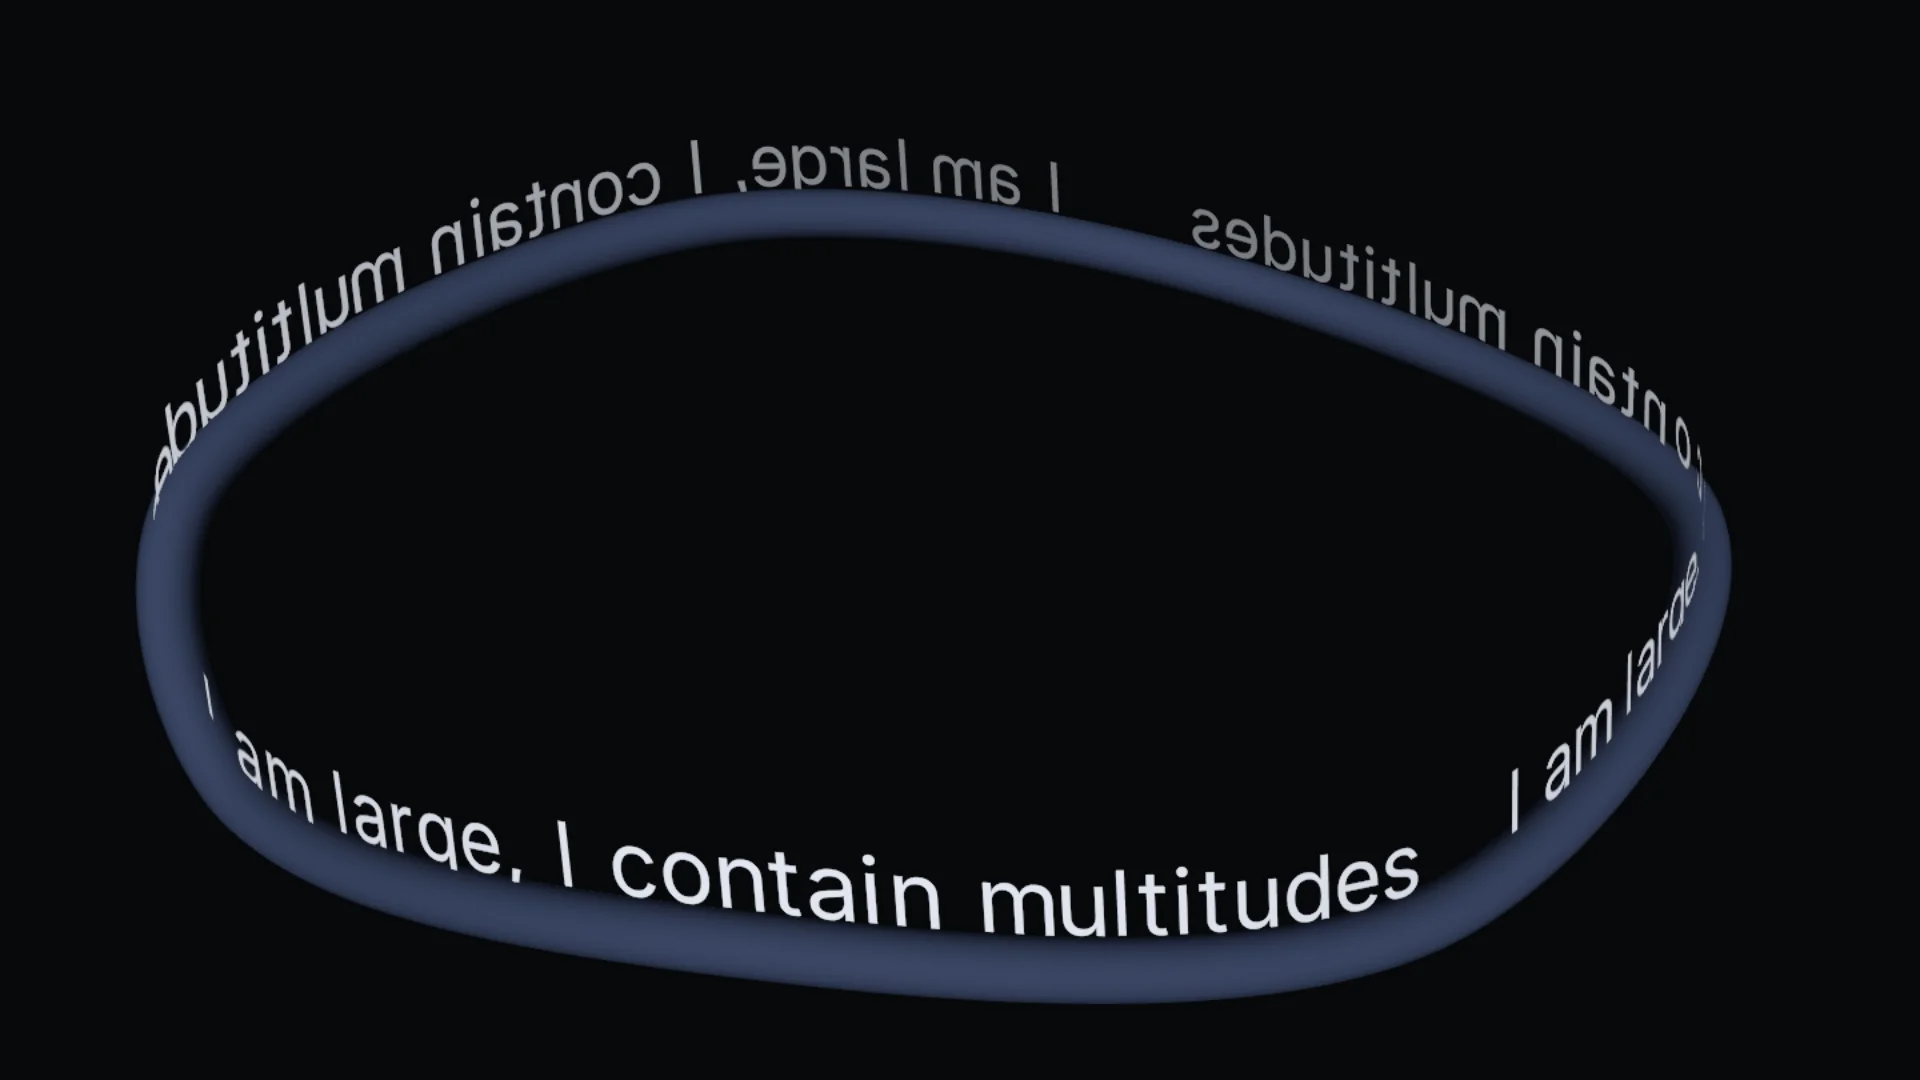
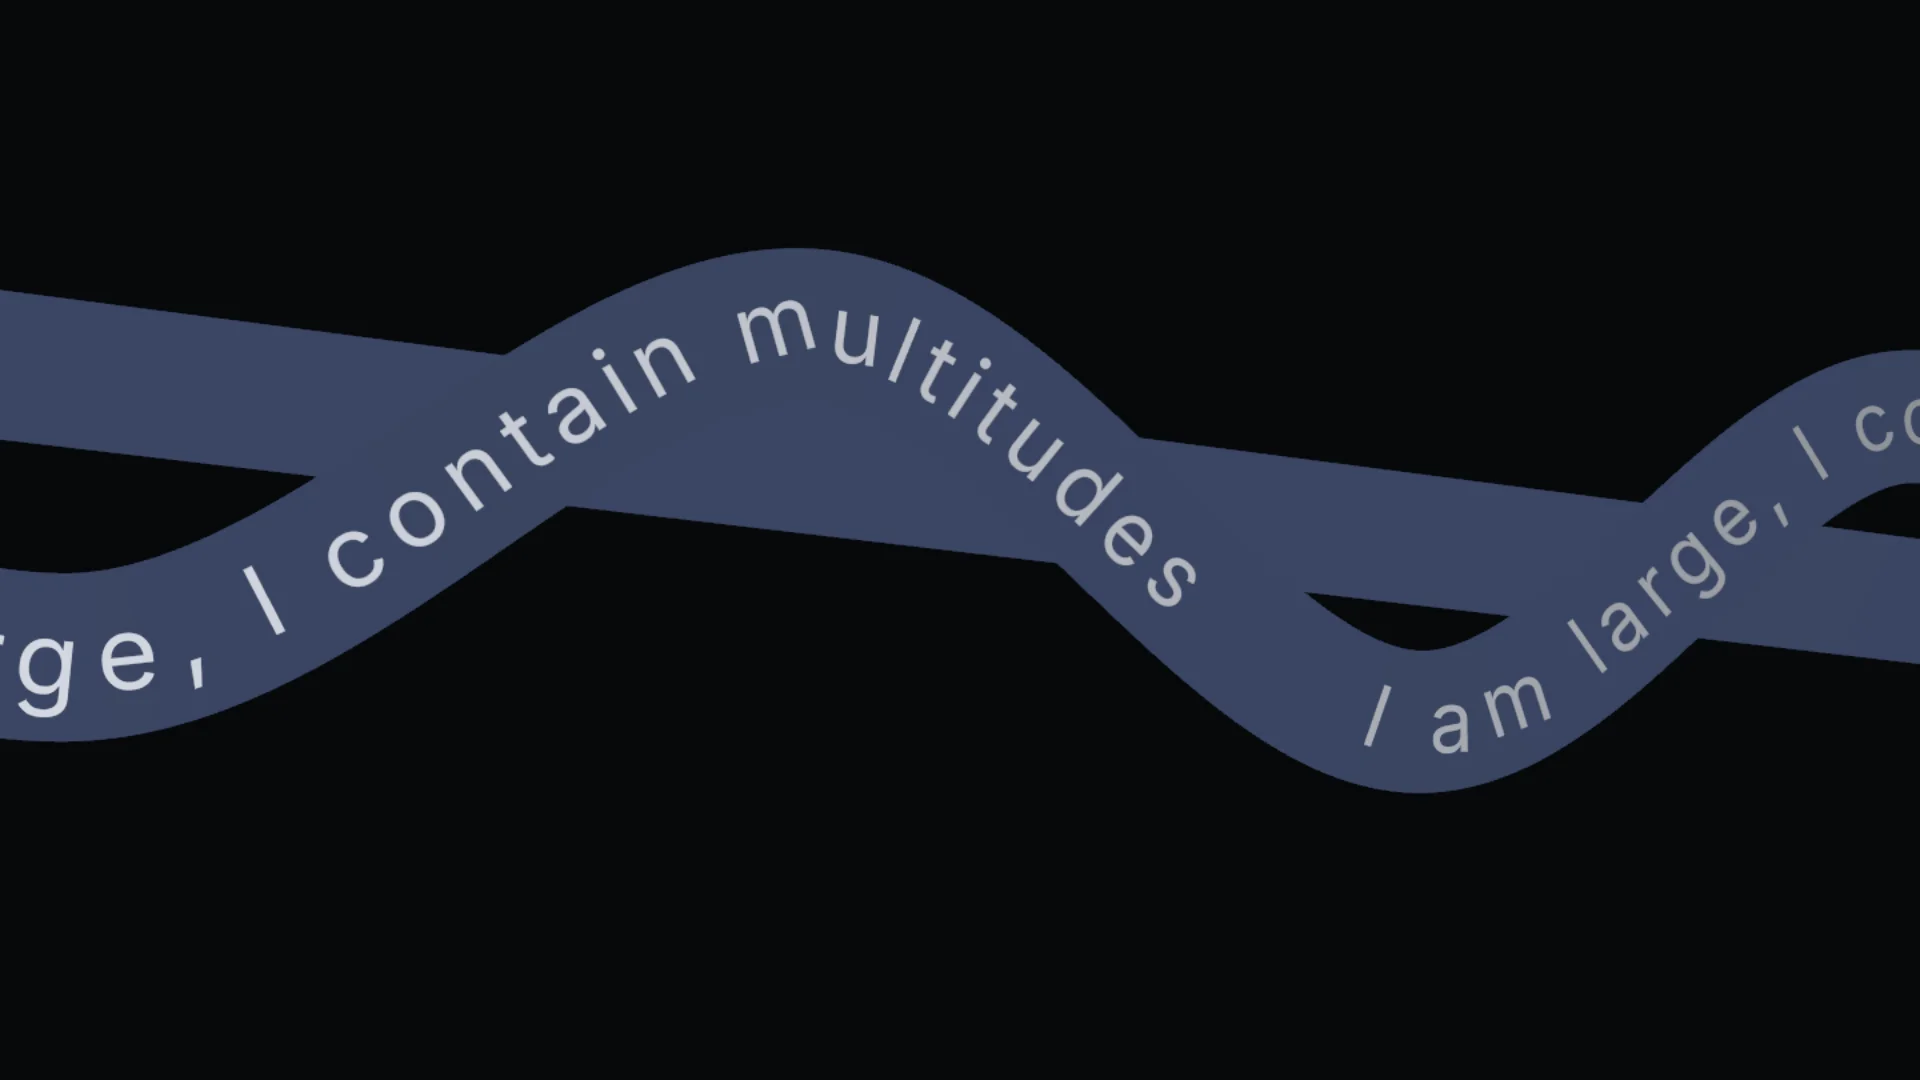
feat(site): the ribbon is a band with the type printed on it
A flat band on an open camera-facing curve, its normal the frame's, with
each glyph laid across the band's width and lifted a little toward the
viewer. Paths gained a lift along the glyph's facing and a band geometry.

diff --git a/site/examples/src/scenes/ribbon/three.ts b/site/examples/src/scenes/ribbon/three.ts
@@ -1,17 +1,18 @@
 import { glyph } from '@pmndrs/glyph';
 import { slug } from '@pmndrs/glyph/raster/slug';
 import { ThreeConfig, type Glyphs } from '@pmndrs/glyph/three';
-import { Group, Matrix4, Mesh, TubeGeometry, type Scene } from 'three/webgpu';
+import { Group, Matrix4, Mesh, Vector3, type Scene } from 'three/webgpu';
 
 import { INTER } from '../../fonts';
+import { bandGeometry } from '../../lib/band';
 import { curvePath, placeOnPath } from '../../lib/paths';
-import { CURVE, LINE, RIBBON } from './config';
+import { CURVE, LINE, REPEATS, RIBBON } from './config';
 import { ribbonInk, ribbonMaterial } from './materials';
 
 /**
- * The imperative twin: a tube on the curve, one line of text shaped once,
- * copied out with `breakApart()` on commit, and every frame each glyph is
- * placed on the same curve by its advance plus time.
+ * The imperative twin: a flat band on an open curve facing the camera, one
+ * line of text shaped once, copied out with `breakApart()` on commit, and
+ * every frame each glyph is laid across the band by its advance plus time.
  */
 export async function mount(scene: Scene): Promise<() => void> {
   await glyph.init();
@@ -19,13 +20,12 @@ export async function mount(scene: Scene): Promise<() => void> {
   const Inter = glyph.fontFace(INTER, { format: slug });
   await Inter.load();
 
-  const path = curvePath(CURVE);
+  const path = curvePath(CURVE, new Vector3(0, 0, 1));
   const stage = new Group();
-  stage.rotation.set(0.22, 0, 0.06);
-  const ribbon = new Mesh(new TubeGeometry(CURVE, 480, RIBBON.radius, 14, true), ribbonMaterial());
+  const ribbon = new Mesh(bandGeometry(path, RIBBON.width, 480, false), ribbonMaterial());
   const line = three.createText({
     font: Inter,
-    text: LINE.repeat(3),
+    text: LINE.repeat(REPEATS),
     material: ribbonInk,
     style: { fontSize: RIBBON.size, color: '#e7ecf6', letterSpacing: RIBBON.letterSpacing },
     layout: { wrap: 'none' },
@@ -42,6 +42,7 @@ export async function mount(scene: Scene): Promise<() => void> {
   let elapsed = 0;
   const tick = (): void => {
     elapsed += 1 / 60;
+    stage.rotation.y = Math.sin(elapsed * 0.3) * RIBBON.sway;
     if (glyphs === undefined && line.commitState().status === 'committed') {
       [glyphs] = line.breakApart();
       width = line.measure().contentWidth;
@@ -53,7 +54,11 @@ export async function mount(scene: Scene): Promise<() => void> {
         const rest = glyphs.measurements[i];
         if (rest === undefined) continue;
         const s = (rest.originalMatrix.elements[12] ?? 0) * (path.length / width) + elapsed * RIBBON.speed;
-        glyphs.setMatrixAt(i, placeOnPath(path, s, 0, RIBBON.radius + 0.02, rest.originalMatrix, matrix));
+        // -π/2 lays the glyph across the band's width, centred on it, lifted a little toward the viewer.
+        glyphs.setMatrixAt(
+          i,
+          placeOnPath(path, s, -Math.PI / 2, -RIBBON.size * 0.36, rest.originalMatrix, matrix, 0.03),
+        );
       }
     }
     glyph.shape();

diff --git a/site/examples/src/scenes/ribbon/scene.tsx b/site/examples/src/scenes/ribbon/scene.tsx
@@ -1,39 +1,51 @@
 import { useSlug } from '@pmndrs/glyph/react/slug';
-import { useMemo } from 'react';
-import { TubeGeometry } from 'three/webgpu';
+import { useFrame } from '@react-three/fiber/webgpu';
+import { useMemo, useRef } from 'react';
+import { type Group, Vector3 } from 'three/webgpu';
 
 import { TextOnPath } from '../../components/text';
 import { INTER } from '../../fonts';
+import { bandGeometry } from '../../lib/band';
 import { curvePath } from '../../lib/paths';
-import { CURVE, LINE, RIBBON } from './config';
+import { CURVE, LINE, REPEATS, RIBBON } from './config';
 import { ribbonInk, ribbonMaterial } from './materials';
 
 /**
- * Words flowing along a ribbon through the scene. The ribbon is a tube on a
- * closed curve; the same curve is the path the glyphs are placed on, so they
- * ride its surface, standing on it and turning with it, upright the whole
- * way round. The type is depth-tested, so the ribbon hides the words that
- * pass behind it.
+ * Words printed on a ribbon that runs through the frame. The ribbon is a
+ * flat band built on an open curve whose normal faces the camera; the same
+ * curve is the path the glyphs are placed on, laid across the band's width,
+ * so the type lies on the ribbon and turns with it. The type is depth-tested
+ * and lifted a little off the band toward the viewer, so the band never
+ * bleeds through it.
  */
+const FACING = new Vector3(0, 0, 1);
+
 export default function Ribbon() {
   const inter = useSlug(INTER);
-  const path = useMemo(() => curvePath(CURVE), []);
-  const geometry = useMemo(() => new TubeGeometry(CURVE, 480, RIBBON.radius, 14, true), []);
+  const path = useMemo(() => curvePath(CURVE, FACING), []);
+  const geometry = useMemo(() => bandGeometry(path, RIBBON.width, 480, false), [path]);
   const material = useMemo(() => ribbonMaterial(), []);
+  const sway = useRef<Group>(null);
+
+  useFrame(({ elapsed }) => {
+    if (sway.current !== null) sway.current.rotation.y = Math.sin(elapsed * 0.3) * RIBBON.sway;
+  });
 
   return (
-    <group rotation={[0.22, 0, 0.06]}>
+    <group ref={sway}>
       <mesh geometry={geometry} material={material} />
       <TextOnPath
         font={inter}
         path={path}
         speed={RIBBON.speed}
-        height={RIBBON.radius + 0.02}
+        angle={-Math.PI / 2}
+        height={-RIBBON.size * 0.36}
+        lift={0.03}
         size={RIBBON.size}
         letterSpacing={RIBBON.letterSpacing}
         material={ribbonInk}
       >
-        {LINE.repeat(3)}
+        {LINE.repeat(REPEATS)}
       </TextOnPath>
     </group>
   );

diff --git a/site/examples/src/lib/paths.ts b/site/examples/src/lib/paths.ts
@@ -77,9 +77,10 @@ export function curvePath(curve: Curve<Vector3>, up = new Vector3(0, 1, 0)): Pat
       const u = (((s % length) + length) % length) / length;
       curve.getPointAt(u, out.position);
       curve.getTangentAt(u, out.tangent);
-      // Type stands on world up wherever the curve goes, the way it does on a circle; the letters never turn over.
-      out.normal.copy(up);
-      out.binormal.copy(out.tangent).cross(up).normalize();
+      // The normal is world up with the tangent's share removed, so it is always perpendicular to the path:
+      // type stands on the tube wherever the curve climbs or dives, and never turns over.
+      out.normal.copy(up).addScaledVector(out.tangent, -up.dot(out.tangent)).normalize();
+      out.binormal.copy(out.tangent).cross(out.normal).normalize();
       return out;
     },
   };
@@ -118,9 +119,10 @@ const scale = new Vector3();
 /**
  * Places one glyph on a path: `s` is its arc position, `angle` its place
  * around the path's frame (0 is the normal), `height` how far its baseline
- * sits from the path, and `originalMatrix` its committed transform, whose
- * scale is kept. The glyph's x runs along the tangent and its y along the
- * chosen radial, so the text reads along the path standing on it.
+ * sits from the path along that radial, `lift` how far it floats off its own
+ * plane toward the viewer, and `originalMatrix` its committed transform,
+ * whose scale is kept. The glyph's x runs along the tangent and its y along
+ * the chosen radial, so the text reads along the path standing on it.
  */
 export function placeOnPath(
   path: Path,
@@ -129,12 +131,13 @@ export function placeOnPath(
   height: number,
   originalMatrix: Matrix4,
   out: Matrix4,
+  lift = 0,
 ): Matrix4 {
   path.frameAt(s, frame);
   radial.copy(frame.normal).multiplyScalar(Math.cos(angle)).addScaledVector(frame.binormal, Math.sin(angle));
   facing.copy(frame.tangent).cross(radial).normalize();
   originalMatrix.decompose(home, q, scale);
-  at.copy(frame.position).addScaledVector(radial, height);
+  at.copy(frame.position).addScaledVector(radial, height).addScaledVector(facing, lift);
   basis.makeBasis(frame.tangent, radial, facing).setPosition(at);
   return out.copy(basis).scale(scale);
 }

diff --git a/site/examples/src/lib/band.ts b/site/examples/src/lib/band.ts
@@ -1,0 +1,52 @@
+import { BufferAttribute, BufferGeometry, Vector3 } from 'three/webgpu';
+
+import type { Path, PathFrame } from './paths';
+
+/**
+ * A flat band along a path: two vertices per sample, one on each side of the
+ * path along its binormal, so the band lies in the path's tangent–binormal
+ * plane and its normal is the frame's normal. Closed by default, so the
+ * last segment joins the first. Text placed on the same path with its y
+ * along the binormal lies printed on this band.
+ */
+export function bandGeometry(path: Path, width: number, segments = 480, closed = true): BufferGeometry {
+  const frame: PathFrame = {
+    position: new Vector3(),
+    tangent: new Vector3(),
+    normal: new Vector3(),
+    binormal: new Vector3(),
+  };
+  const rows = closed ? segments : segments + 1;
+  const positions = new Float32Array(rows * 2 * 3);
+  const normals = new Float32Array(rows * 2 * 3);
+  const uvs = new Float32Array(rows * 2 * 2);
+  const half = width / 2;
+  const samples = closed ? segments : segments + 1;
+  for (let i = 0; i < samples; i += 1) {
+    path.frameAt((i / segments) * path.length, frame);
+    for (let side = 0; side < 2; side += 1) {
+      const offset = side === 0 ? -half : half;
+      const v = (i * 2 + side) * 3;
+      positions[v] = frame.position.x + frame.binormal.x * offset;
+      positions[v + 1] = frame.position.y + frame.binormal.y * offset;
+      positions[v + 2] = frame.position.z + frame.binormal.z * offset;
+      normals[v] = frame.normal.x;
+      normals[v + 1] = frame.normal.y;
+      normals[v + 2] = frame.normal.z;
+      uvs[(i * 2 + side) * 2] = i / segments;
+      uvs[(i * 2 + side) * 2 + 1] = side;
+    }
+  }
+  const indices: number[] = [];
+  for (let i = 0; i < segments; i += 1) {
+    const a = i * 2;
+    const b = (closed ? (i + 1) % segments : i + 1) * 2;
+    indices.push(a, a + 1, b, a + 1, b + 1, b);
+  }
+  const geometry = new BufferGeometry();
+  geometry.setAttribute('position', new BufferAttribute(positions, 3));
+  geometry.setAttribute('normal', new BufferAttribute(normals, 3));
+  geometry.setAttribute('uv', new BufferAttribute(uvs, 2));
+  geometry.setIndex(indices);
+  return geometry;
+}

diff --git a/site/examples/src/scenes/ribbon/config.ts b/site/examples/src/scenes/ribbon/config.ts
@@ -1,29 +1,43 @@
 import { CatmullRomCurve3, Vector3 } from 'three/webgpu';
 
-/** A closed loop that swings through depth, so the ribbon passes in front of and behind itself. */
+/**
+ * An open S-curve across the frame, both ends past its edges, with a little
+ * depth so the band tilts as it goes: the ribbon a banner would make.
+ */
 export const CURVE = new CatmullRomCurve3(
-  // Counter-clockwise seen from above, so the near side runs left to right and reads forward.
   [
-    new Vector3(-4.0, -0.9, 0.9),
-    new Vector3(-1.2, -1.4, 2.2),
-    new Vector3(2.4, -1.7, 1.6),
-    new Vector3(4.4, -0.2, -0.6),
-    new Vector3(1.8, 1.2, -2.6),
-    new Vector3(-1.6, 1.8, -1.8),
-    new Vector3(-4.2, 0.6, 0.4),
+    new Vector3(-9.0, 1.4, 0.7),
+    new Vector3(-4.6, -0.6, 1.0),
+    new Vector3(-0.8, 1.2, 0.2),
+    new Vector3(2.8, -1.1, -0.5),
+    new Vector3(6.2, 0.8, -1.2),
+    new Vector3(9.6, -0.8, -1.8),
   ],
-  true,
+  false,
   'centripetal',
 );
 
 export const RIBBON = {
-  /** The tube's radius; type sits just above it. */
-  radius: 0.16,
+  /** The band's width; the type lies across it, so it is a little wider than a line is tall. */
+  width: 0.86,
+  /** A slow sway of the whole ribbon about y, so its depth reads. */
+  sway: 0.16,
   /** Units of arc per second the words travel. */
-  speed: 0.9,
-  size: 0.46,
+  speed: 1.1,
+  size: 0.52,
   letterSpacing: 0.05,
 } as const;
 
 /** Whitman, public domain. */
 export const LINE = 'I am large, I contain multitudes  ·  ';
+
+/**
+ * How many times the line repeats so the shaped text is about as long as the
+ * path: the glyphs are placed by advance mapped onto arc length, and a close
+ * match keeps that mapping near one so letter spacing reads as authored.
+ * Inter's average advance is about half an em.
+ */
+export const REPEATS = Math.max(
+  1,
+  Math.round(CURVE.getLength() / (LINE.length * (RIBBON.size * 0.52 + RIBBON.letterSpacing))),
+);

diff --git a/site/examples/src/components/text/TextOnPath.tsx b/site/examples/src/components/text/TextOnPath.tsx
@@ -20,6 +20,8 @@ export function TextOnPath<Technique extends AnyRasterFormat>({
   path,
   speed = 0,
   height = 0,
+  angle = 0,
+  lift = 0,
   size = 0.4,
   color = '#e7ecf6',
   letterSpacing = 0.06,
@@ -29,8 +31,12 @@ export function TextOnPath<Technique extends AnyRasterFormat>({
   readonly font: Font<Technique>;
   readonly path: Path;
   readonly speed?: number;
-  /** How far the baseline sits from the path along its normal; a tube's radius puts the type on its surface. */
+  /** How far the baseline sits from the path along the chosen radial; a tube's radius puts the type on its surface. */
   readonly height?: number;
+  /** Where around the path's frame the type stands: 0 is the normal, -π/2 lays it across a band's width. */
+  readonly angle?: number;
+  /** How far the type floats off its own plane toward the viewer; lifts it clear of a surface it lies on. */
+  readonly lift?: number;
   readonly size?: number;
   readonly color?: string;
   readonly letterSpacing?: number;
@@ -64,7 +70,7 @@ export function TextOnPath<Technique extends AnyRasterFormat>({
       if (rest === undefined) continue;
       // The line tiles the path exactly once: advance along the line scales to arc length.
       const s = (rest.originalMatrix.elements[12] ?? 0) * (path.length / width) + elapsed * speed;
-      glyphs.setMatrixAt(i, placeOnPath(path, s, 0, height, rest.originalMatrix, m));
+      glyphs.setMatrixAt(i, placeOnPath(path, s, angle, height, rest.originalMatrix, m, lift));
     }
   });
 

diff --git a/site/examples/src/scenes/ribbon/materials.ts b/site/examples/src/scenes/ribbon/materials.ts
@@ -1,10 +1,10 @@
 import { defineTextMaterial } from '@pmndrs/glyph/three';
 import { color, mix, normalView, positionWorld } from 'three/tsl';
-import { MeshBasicNodeMaterial } from 'three/webgpu';
+import { DoubleSide, MeshBasicNodeMaterial } from 'three/webgpu';
 
 /**
- * Type on the ribbon: depth-tested, so the ribbon hides the words that pass
- * behind it, and dimmed with distance so the far side reads as far. The quad
+ * Type on the ribbon: depth-tested, so the ribbon hides the words it passes
+ * over, and dimmed with distance so the far side reads as far. The quad
  * still never writes depth.
  */
 export const ribbonInk = defineTextMaterial((context) => {
@@ -17,10 +17,11 @@ export const ribbonInk = defineTextMaterial((context) => {
   return material;
 });
 
-/** A satin tube, shaded by its own facing rather than a light rig: bright where it faces the camera, dark at the rim. */
+/** A satin band, shaded by its own facing rather than a light rig: bright where it faces the camera, dark edge-on. */
 export function ribbonMaterial(): MeshBasicNodeMaterial {
   const material = new MeshBasicNodeMaterial();
-  const facing = normalView.z.clamp(0, 1);
-  material.colorNode = mix(color('#0d1119'), color('#3a4664'), facing.pow(1.6));
+  material.side = DoubleSide;
+  const facing = normalView.z.abs().clamp(0, 1);
+  material.colorNode = mix(color('#0d1119'), color('#3a4664'), facing.pow(1.4));
   return material;
 }
